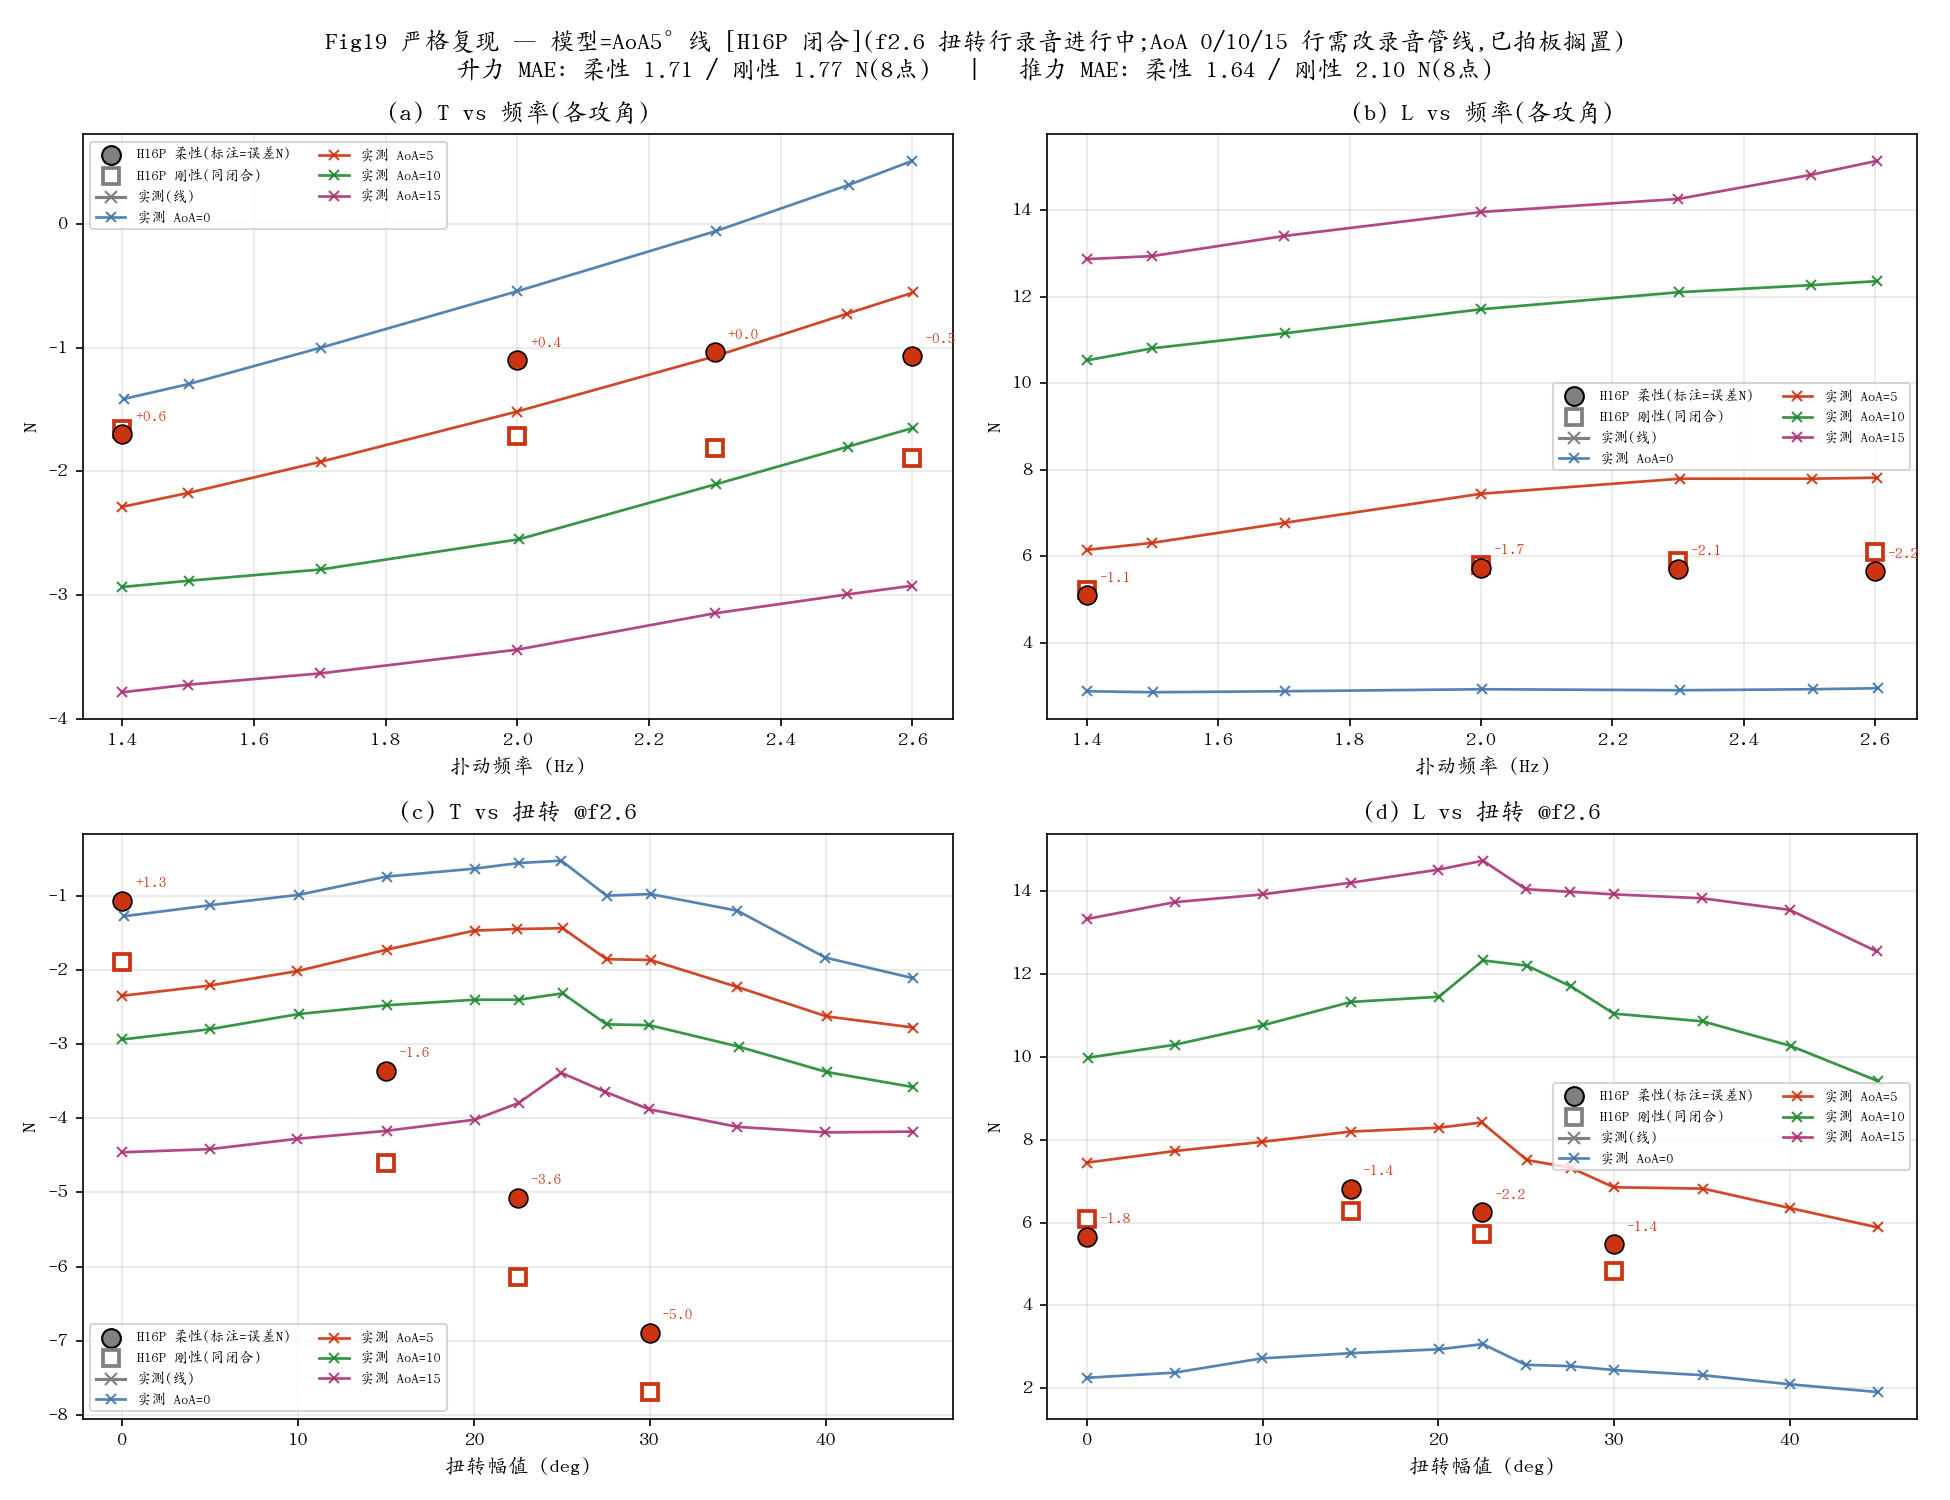
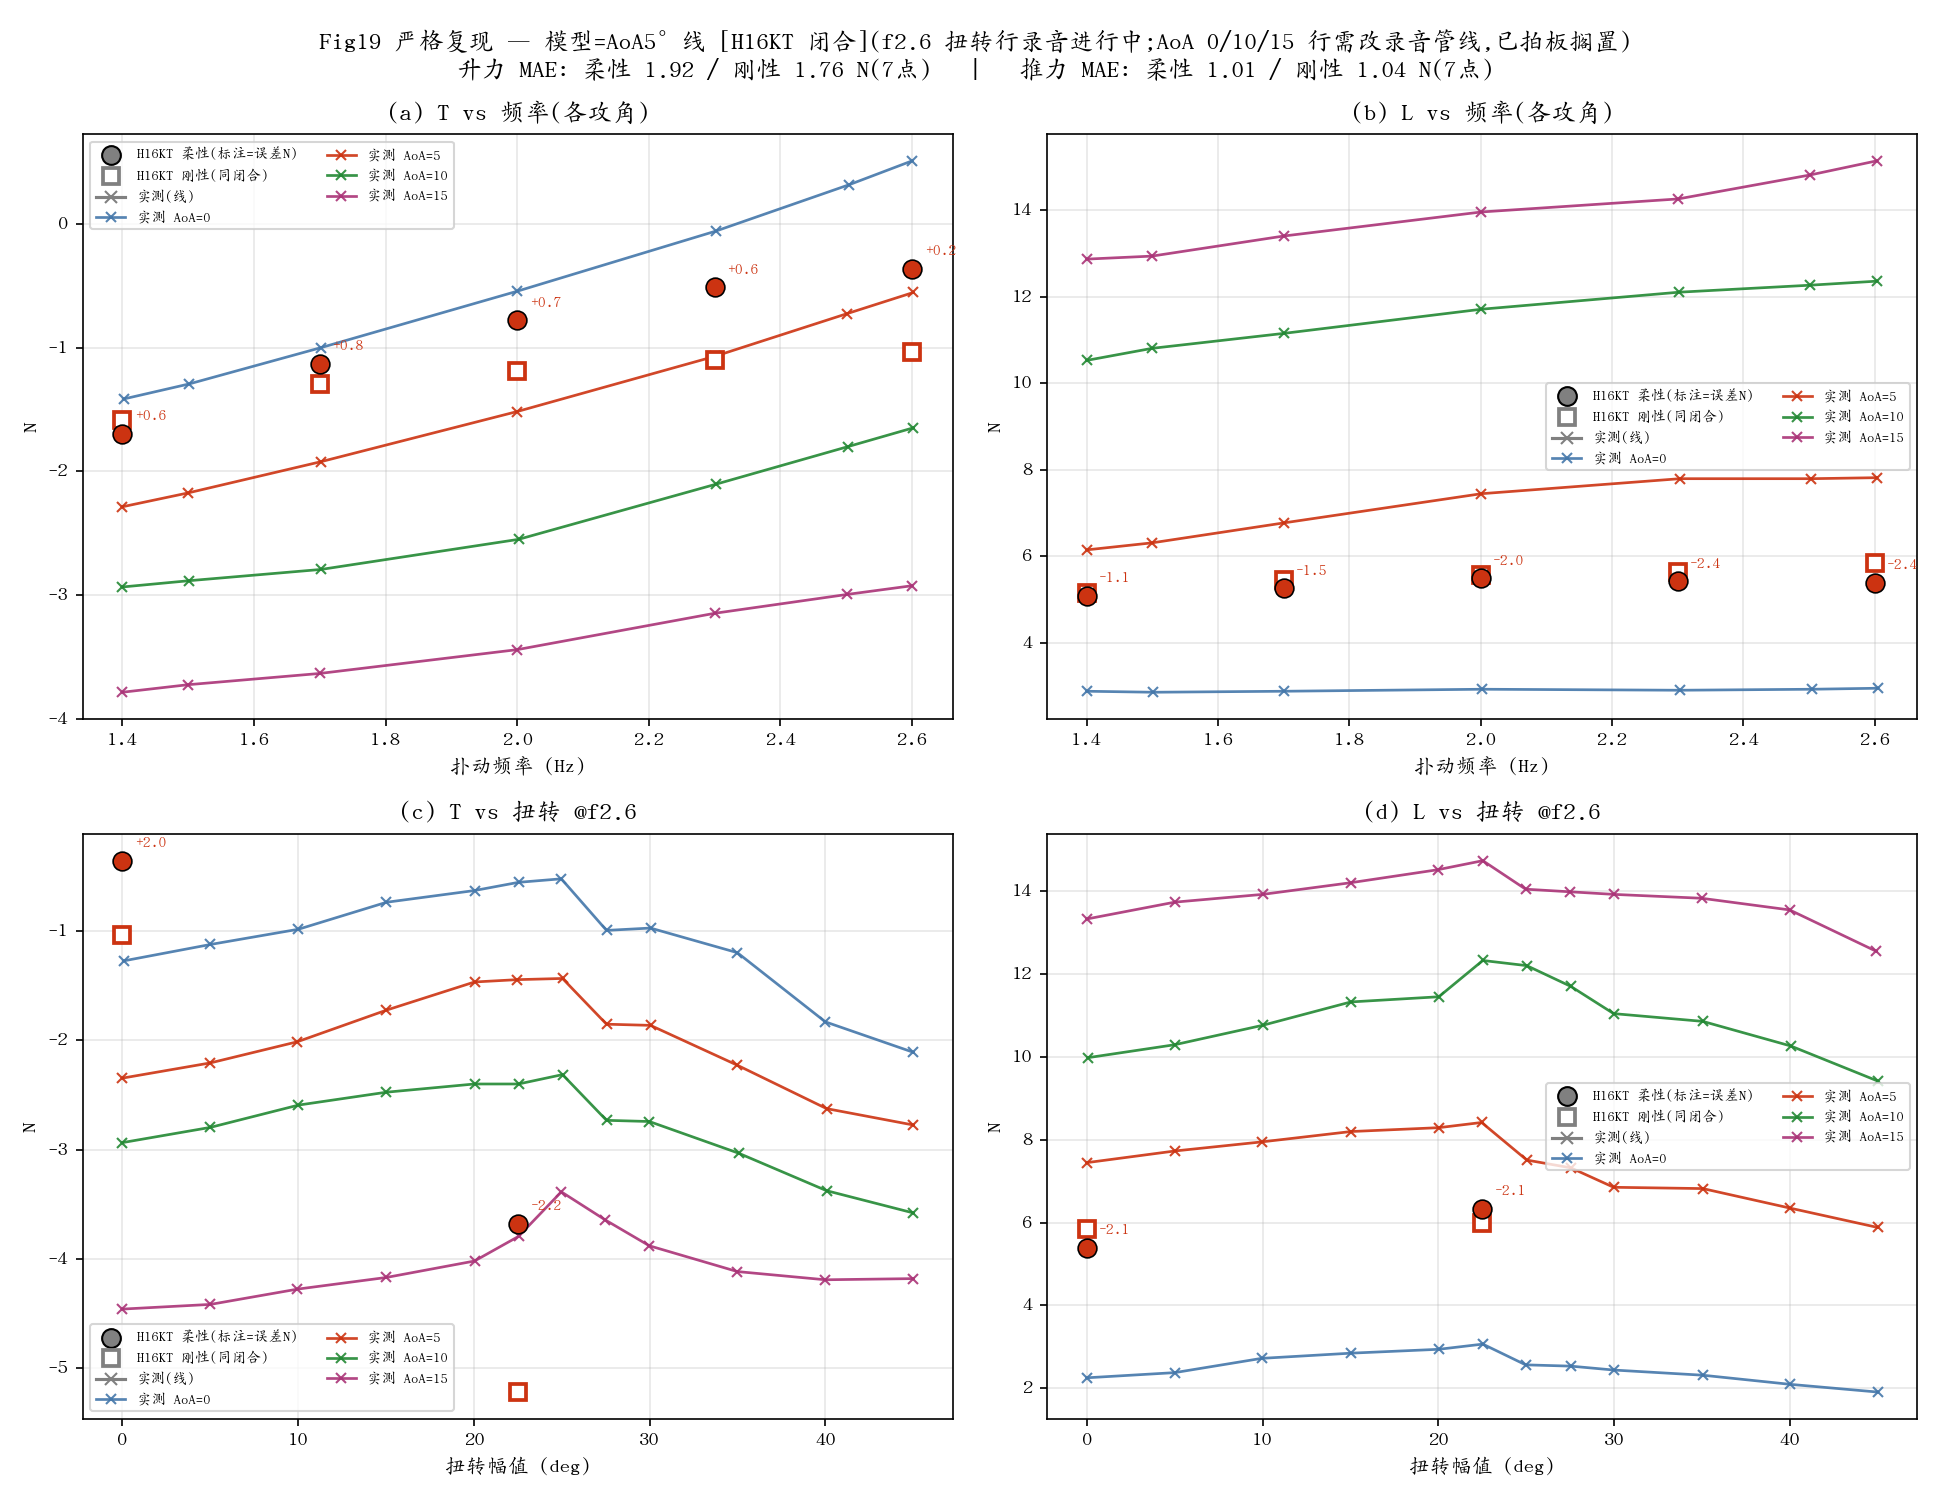
feat(GAP): nc12 gate passed for H16KT — case B closed at production grid
- tw0 frequency law: model f2-slope +0.277 vs measured +0.358 (gap
  slope -0.08, criterion |b|<0.1 MET) — Carlson K_T attainable suction
  supplies the real frequency growth; residual is a ~+0.5N constant
  offset (d_para/rig-tare shaped -> merged into case C)
- twist line: gaps shrink 1-1.3N per point (tw22.5 -3.70 -> -2.38),
  slope -0.196 -> -0.169; case-A residual -0.17 N/deg -> next case:
  LEV impulse phase (Otomo pointer)
- kirch_tw lift gain seen at nc4 does not materialize at nc12 (lower
  separated fraction); lift deficit -1.5~-2.2 unchanged, separate item
- Fig17/18/19 redrawn with H16KT as the single family (11 points)

diff --git a/platform/p2_s6_fig_strict.py b/platform/p2_s6_fig_strict.py
@@ -27,7 +27,7 @@ rcParams["axes.unicode_minus"] = False
 _HERE = os.path.dirname(os.path.abspath(__file__))
 DOCS = os.path.join(_HERE, "docs")
 MEAS = json.load(open(os.path.join(DOCS, "repro_data.json")))
-CFG = "H16P"                                       # current best closure
+CFG = "H16KT"                                      # current best closure (kt + kirch_tw)
 
 PTS = {}
 _p = os.path.join(DOCS, "s6_results_lessep.json")
